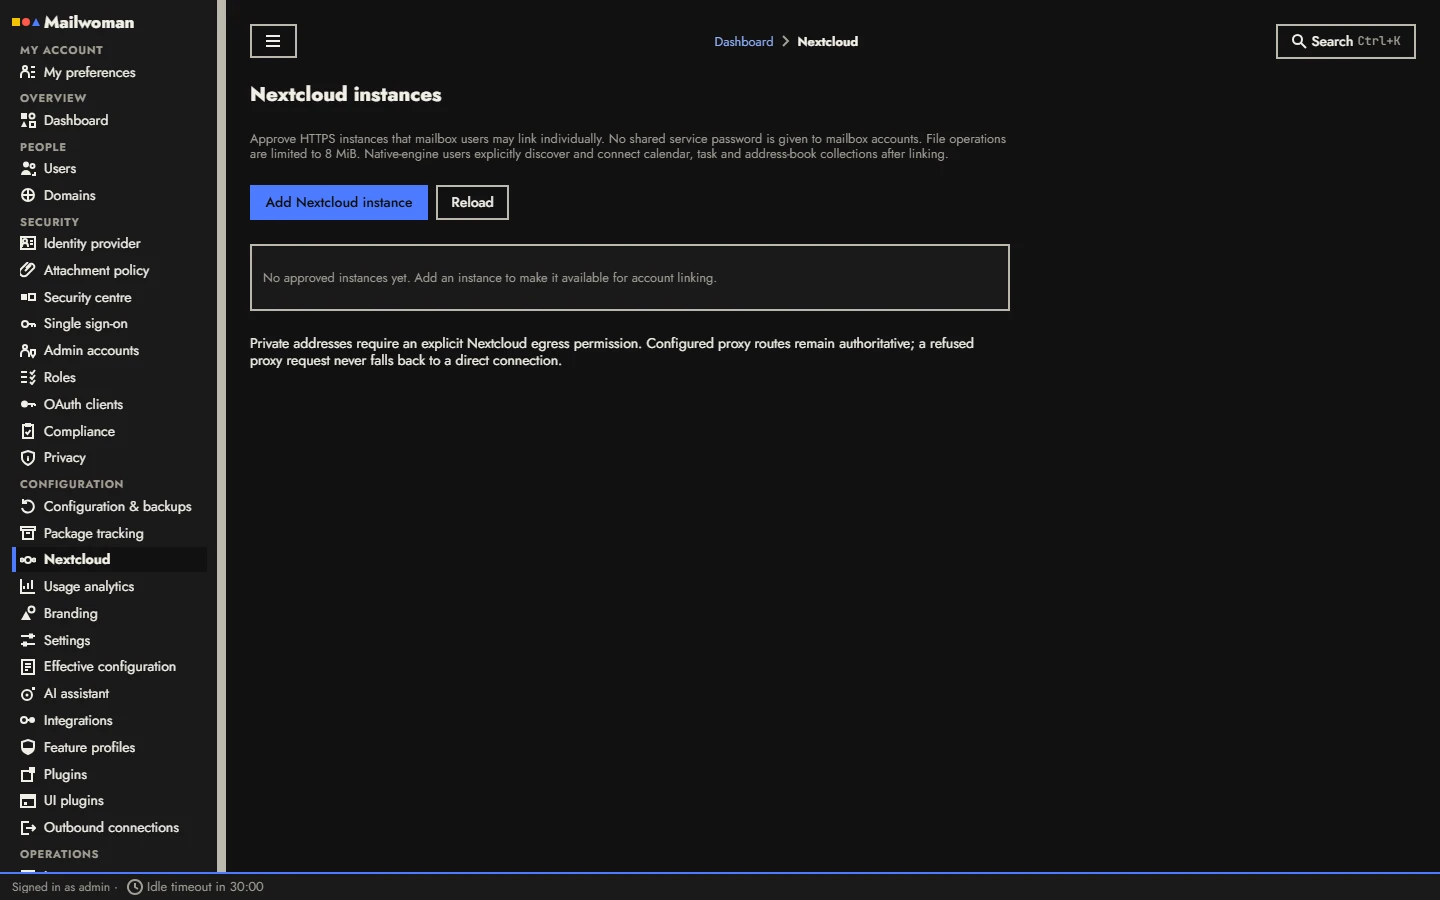
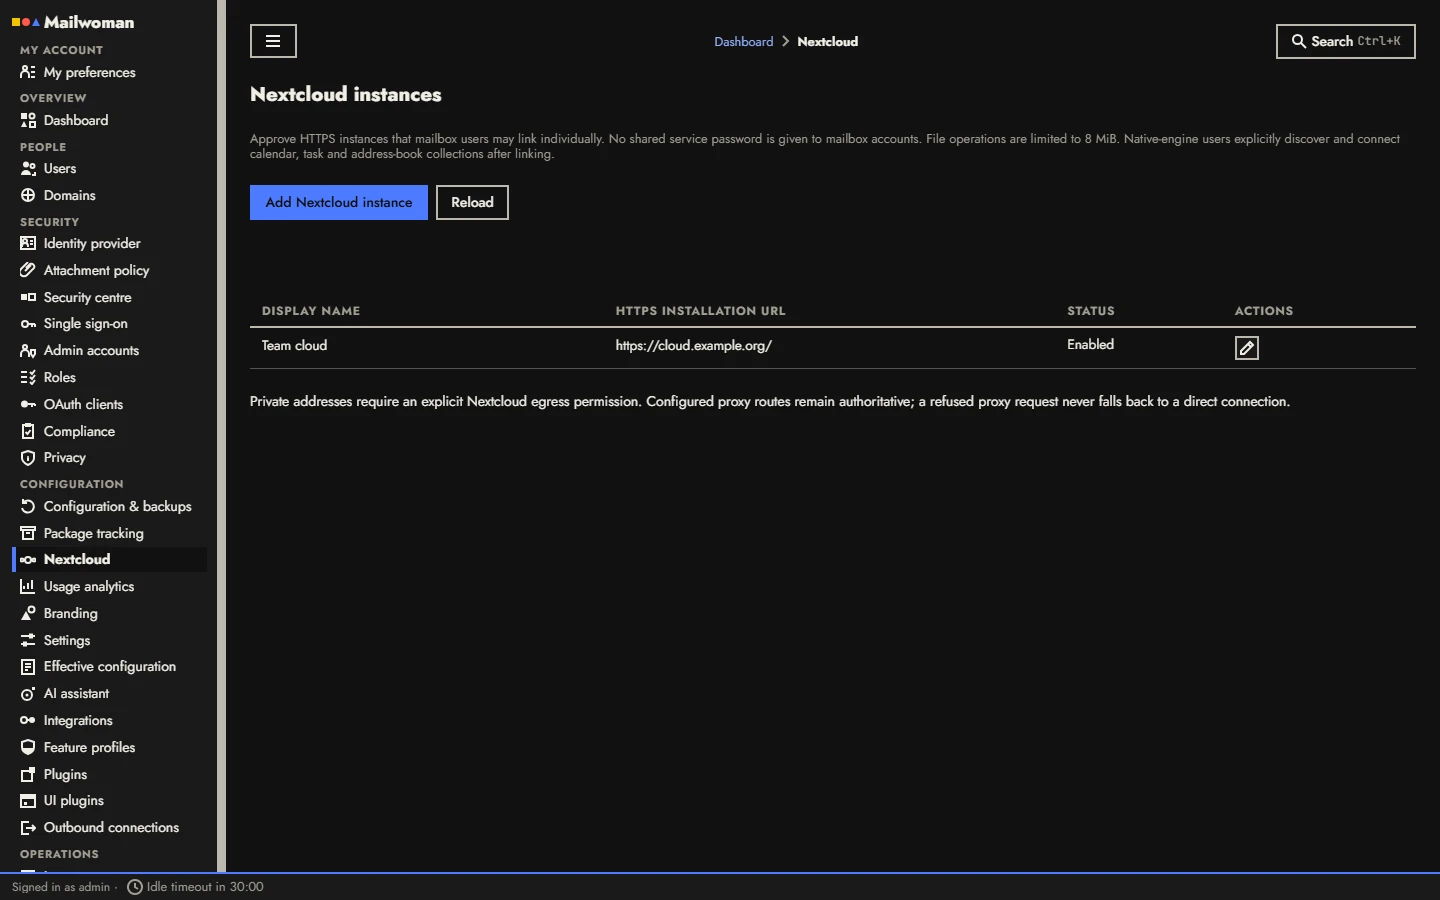
docs(integrations): Nextcloud instance form and saved instance screenshots

diff --git a/docs/integrations/nextcloud.md b/docs/integrations/nextcloud.md
@@ -33,7 +33,11 @@ This is the section before an administrator approves an instance. Approved insta
 6. Turn on **Allow users to link this instance**.
 7. Save.
 
-![The Nextcloud instances page of the administration console with no approved instances and the Add Nextcloud instance button.](/screenshots/integrations/admin-nextcloud-instance.webp){.mw-shot}
+![The Add Nextcloud instance form filled in with the display name Team cloud, the URL https://cloud.example.org/ and Allow users to link this instance ticked.](/screenshots/integrations/admin-nextcloud-form.webp){.mw-crop}
+
+After saving, the **Nextcloud** page lists the instance with its **Display name**, **HTTPS installation URL** and **Status**. The pencil button edits it.
+
+![The Nextcloud instances page of the administration console listing the instance Team cloud at https://cloud.example.org/ with the status Enabled.](/screenshots/integrations/admin-nextcloud-instance.webp){.mw-shot}
 
 Saving any change to an instance asks users to verify their links again. Disabling an instance stops new operations at once; users can still remove their stale or disabled links.
 
